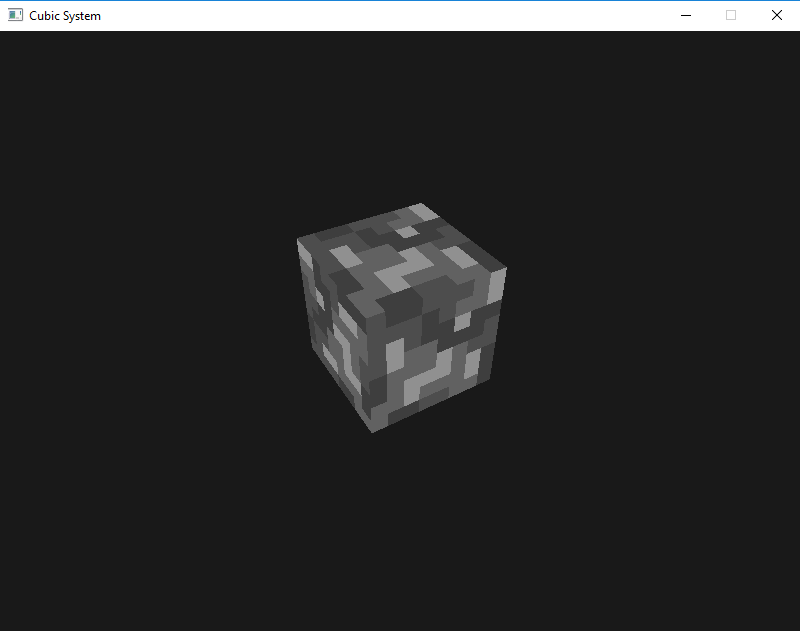
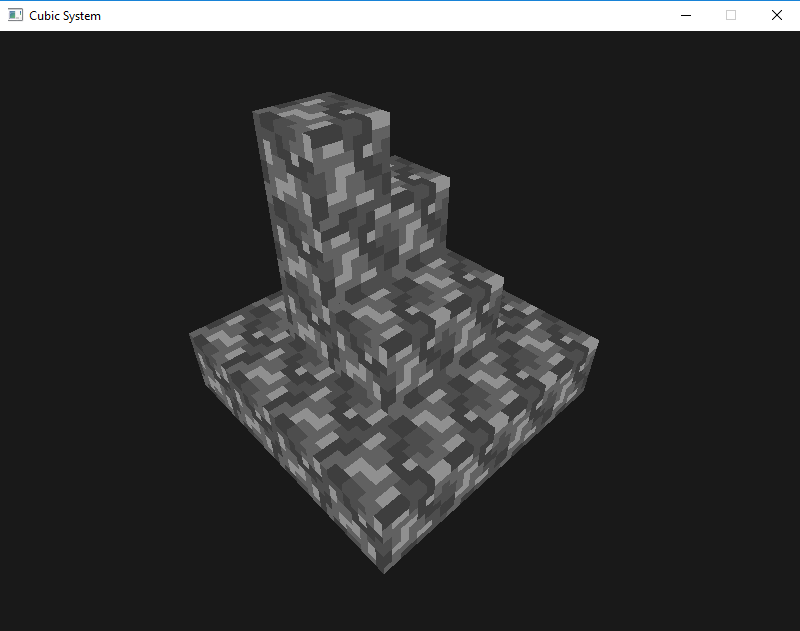
Added ability to render worlds and custom maps

Changed region(s): [[0.2188, 0.1506, 0.75, 0.9033]]

diff --git a/CubicSystem/renderer.cpp b/CubicSystem/renderer.cpp
@@ -1,36 +1,56 @@
-#include "cube_renderer.h"
+#include "renderer.h"
 
 #include <glm/gtc/matrix_transform.hpp>
+#include "renderer.h"
 
-CubeRenderer::CubeRenderer(Shader &shader)
+Renderer::Renderer(Shader &shader)
 {
     this->shader = shader;
     initRenderData();
 }
 
-CubeRenderer::~CubeRenderer()
+Renderer::~Renderer()
 {
     glDeleteVertexArrays(1, &cubeVAO);
     glDeleteBuffers(1, &VBO);
 }
 
-void CubeRenderer::DrawCube(Texture2D& texture, glm::vec3 position)
+void Renderer::DrawWorld(World world)
+{
+    shader.Use();
+
+    for (auto block : world.Blocks)
+    {
+        glm::mat4 model;
+        model = glm::translate(model, block.Position);
+        shader.SetMatrix4("model", model);
+
+        glActiveTexture(GL_TEXTURE0);
+        block.Texture.Bind();
+
+        glBindVertexArray(cubeVAO);
+        glDrawArrays(GL_TRIANGLES, 0, 36);
+        glBindVertexArray(0);
+    }
+}
+
+void Renderer::DrawBlock(Block block)
 {
     shader.Use();
 
     glm::mat4 model;
-    model = glm::translate(model, position);
+    model = glm::translate(model, block.Position);
     shader.SetMatrix4("model", model);
 
     glActiveTexture(GL_TEXTURE0);
-    texture.Bind();
+    block.Texture.Bind();
 
     glBindVertexArray(cubeVAO);
     glDrawArrays(GL_TRIANGLES, 0, 36);
     glBindVertexArray(0);
 }
 
-void CubeRenderer::initRenderData()
+void Renderer::initRenderData()
 {
     GLuint VBO;
     GLfloat vertices[] = {

diff --git a/CubicSystem/game.cpp b/CubicSystem/game.cpp
@@ -1,11 +1,13 @@
 #include "game.h"
+#include "camera.h"
+#include "world_loader.h"
+#include "renderer.h"
 #include "resource_manager.h"
 
-#include "camera.h"
-#include "cube_renderer.h"
-
 Camera camera;
-CubeRenderer* renderer;
+Renderer* renderer;
+
+World world;
 
 Game::Game(GLuint width, GLuint height)
     : State(GAME_ACTIVE), Keys(), Width(width), Height(height) { }
@@ -27,10 +29,13 @@ void Game::Init()
     shader.SetMatrix4("projection", projection);
 
     // Set renderer specific fields
-    renderer = new CubeRenderer(shader);
+    renderer = new Renderer(shader);
 
     // Load textures
-    ResourceManager::LoadTexture("../CubicSystem/images/stone.png", GL_FALSE, "stone");
+    ResourceManager::LoadTexture("../CubicSystem/images/rock.png", GL_FALSE, "rock");
+
+    // Load map
+    world = WorldLoader::Load("../CubicSystem/maps/map.csm");
 }
 
 void Game::ProcessInput(GLfloat dt)
@@ -63,7 +68,7 @@ void Game::Update(GLfloat dt)
 
 void Game::Render()
 {
-    renderer->DrawCube(ResourceManager::GetTexture("stone"), glm::vec3(0.0f, 0.0f, 0.0f));
+    renderer->DrawWorld(world);
 }
 
 

diff --git a/CubicSystem/world_loader.cpp b/CubicSystem/world_loader.cpp
@@ -1,0 +1,39 @@
+#include "world_loader.h"
+
+#include <fstream>
+#include <glm/glm.hpp>
+
+// DELETE AFTER REMOVING COUTS
+#include <iostream>
+
+World WorldLoader::Load(const char* filename)
+{
+    World result;
+
+    std::ifstream file;
+    file.open(filename, std::ios::in || std::ios::binary);
+    if (file.is_open())
+    {
+        int blocks;
+        file.read((char*)&blocks, sizeof(int));
+
+        result.Blocks.resize(blocks);
+
+        std::cout << "LOADING " << blocks << " BLOCKS" << std::endl;
+
+        float x, y, z;
+        for (int i = 0; i < blocks; i++)
+        {
+            file.read((char*)&x, sizeof(float));
+            file.read((char*)&y, sizeof(float));
+            file.read((char*)&z, sizeof(float));
+
+            std::cout << "LOADED BLOCK AT " << x << ", " << y << ", " << z << std::endl;
+
+            // For now, they all have the same ID (0)
+            result.Blocks.push_back(*new Block(glm::vec3(x, y, z), 0, 0));
+        }
+    }
+
+    return result;
+}

diff --git a/CubicSystem/main.cpp b/CubicSystem/main.cpp
@@ -124,15 +124,14 @@ void mouse_callback(GLFWwindow* window, double xpos, double ypos)
         lastMouseY = ypos;
         firstMouse = false;
     }
-
     GLfloat xoffset = xpos - lastMouseX;
     GLfloat yoffset = lastMouseY - ypos; // Reversed since y coordinates range from bottom to top
 
     lastMouseX = xpos;
     lastMouseY = ypos;
 
-    game.MouseXOffset = xoffset;
-    game.MouseYOffset = yoffset;
+    game.MouseXOffset += xoffset;
+    game.MouseYOffset += yoffset;
 }
 
 void scroll_callback(GLFWwindow* window, double xoffset, double yoffset)

diff --git a/CubicSystem/world_loader.h b/CubicSystem/world_loader.h
@@ -1,0 +1,27 @@
+#pragma once
+
+/*
+map format:
+(1): integer value  : number of non-air blocks
+(2): ${1} * 3 float : x, y, z coordinates of the block
+
+example (in binary)
+4
+-1.0f, 0.0f, 0.0f
+ 0.0f, 0.0f, 0.0f
+ 1.0f, 0.0f, 0.0f
+ 0.0f, 0.0f, 1.0f
+
+*/
+
+#include "world.h"
+
+class WorldLoader
+{
+public:
+    static World Load(const char* file);
+
+private:
+    // Don't allow instances
+    WorldLoader() { }
+};

diff --git a/CubicSystem/block.h b/CubicSystem/block.h
@@ -1,0 +1,21 @@
+#pragma once
+
+#include <string>
+#include <glm/glm.hpp>
+
+#include "texture.h"
+#include "resource_manager.h"
+
+class Block
+{
+public:
+    int ID;
+    int SubID;
+    glm::vec3 Position;
+    Texture2D Texture;
+
+    Block() : Position(glm::vec3()), ID(-1), SubID(-1) { }
+    Block(glm::vec3 position, int id, int subId);
+
+    static std::string IDToName(int id);
+};

diff --git a/CubicSystem/block.cpp b/CubicSystem/block.cpp
@@ -1,0 +1,16 @@
+#include "block.h"
+
+Block::Block(glm::vec3 position, int id, int subId)
+    : Position(position), ID(id), SubID(subId)
+{
+    Texture = ResourceManager::GetTexture(IDToName(id));
+}
+
+std::string Block::IDToName(int id)
+{
+    switch (id)
+    {
+    case 0:  return "rock";
+    default: return "(unnamed)";
+    }
+}

diff --git a/CubicSystem/renderer.h b/CubicSystem/renderer.h
@@ -1,0 +1,21 @@
+#pragma once
+
+#include "shader.h"
+#include "world.h"
+#include "block.h"
+
+class Renderer
+{
+public:
+    Renderer(Shader &shader);
+    ~Renderer();
+
+    void DrawWorld(World world);
+    void DrawBlock(Block block);
+
+private:
+    Shader shader;
+    GLuint VBO, cubeVAO;
+
+    void initRenderData();
+};

diff --git a/CubicSystem/texture.cpp b/CubicSystem/texture.cpp
@@ -3,7 +3,7 @@
 Texture2D::Texture2D() :
     Width(0), Height(0), 
     InternalFormat(GL_RGB), ImageFormat(GL_RGB), 
-    WrapS(GL_REPEAT), WrapT(GL_REPEAT), 
+    WrapS(GL_REPEAT), WrapT(GL_REPEAT),
     FilterMin(GL_NEAREST), FilterMax(GL_NEAREST)
 {
     glGenTextures(1, &ID);

diff --git a/CubicSystem/world.h b/CubicSystem/world.h
@@ -1,0 +1,11 @@
+#pragma once
+
+#include <vector>
+
+#include "block.h"
+
+class World
+{
+public:
+    std::vector<Block> Blocks;
+};
